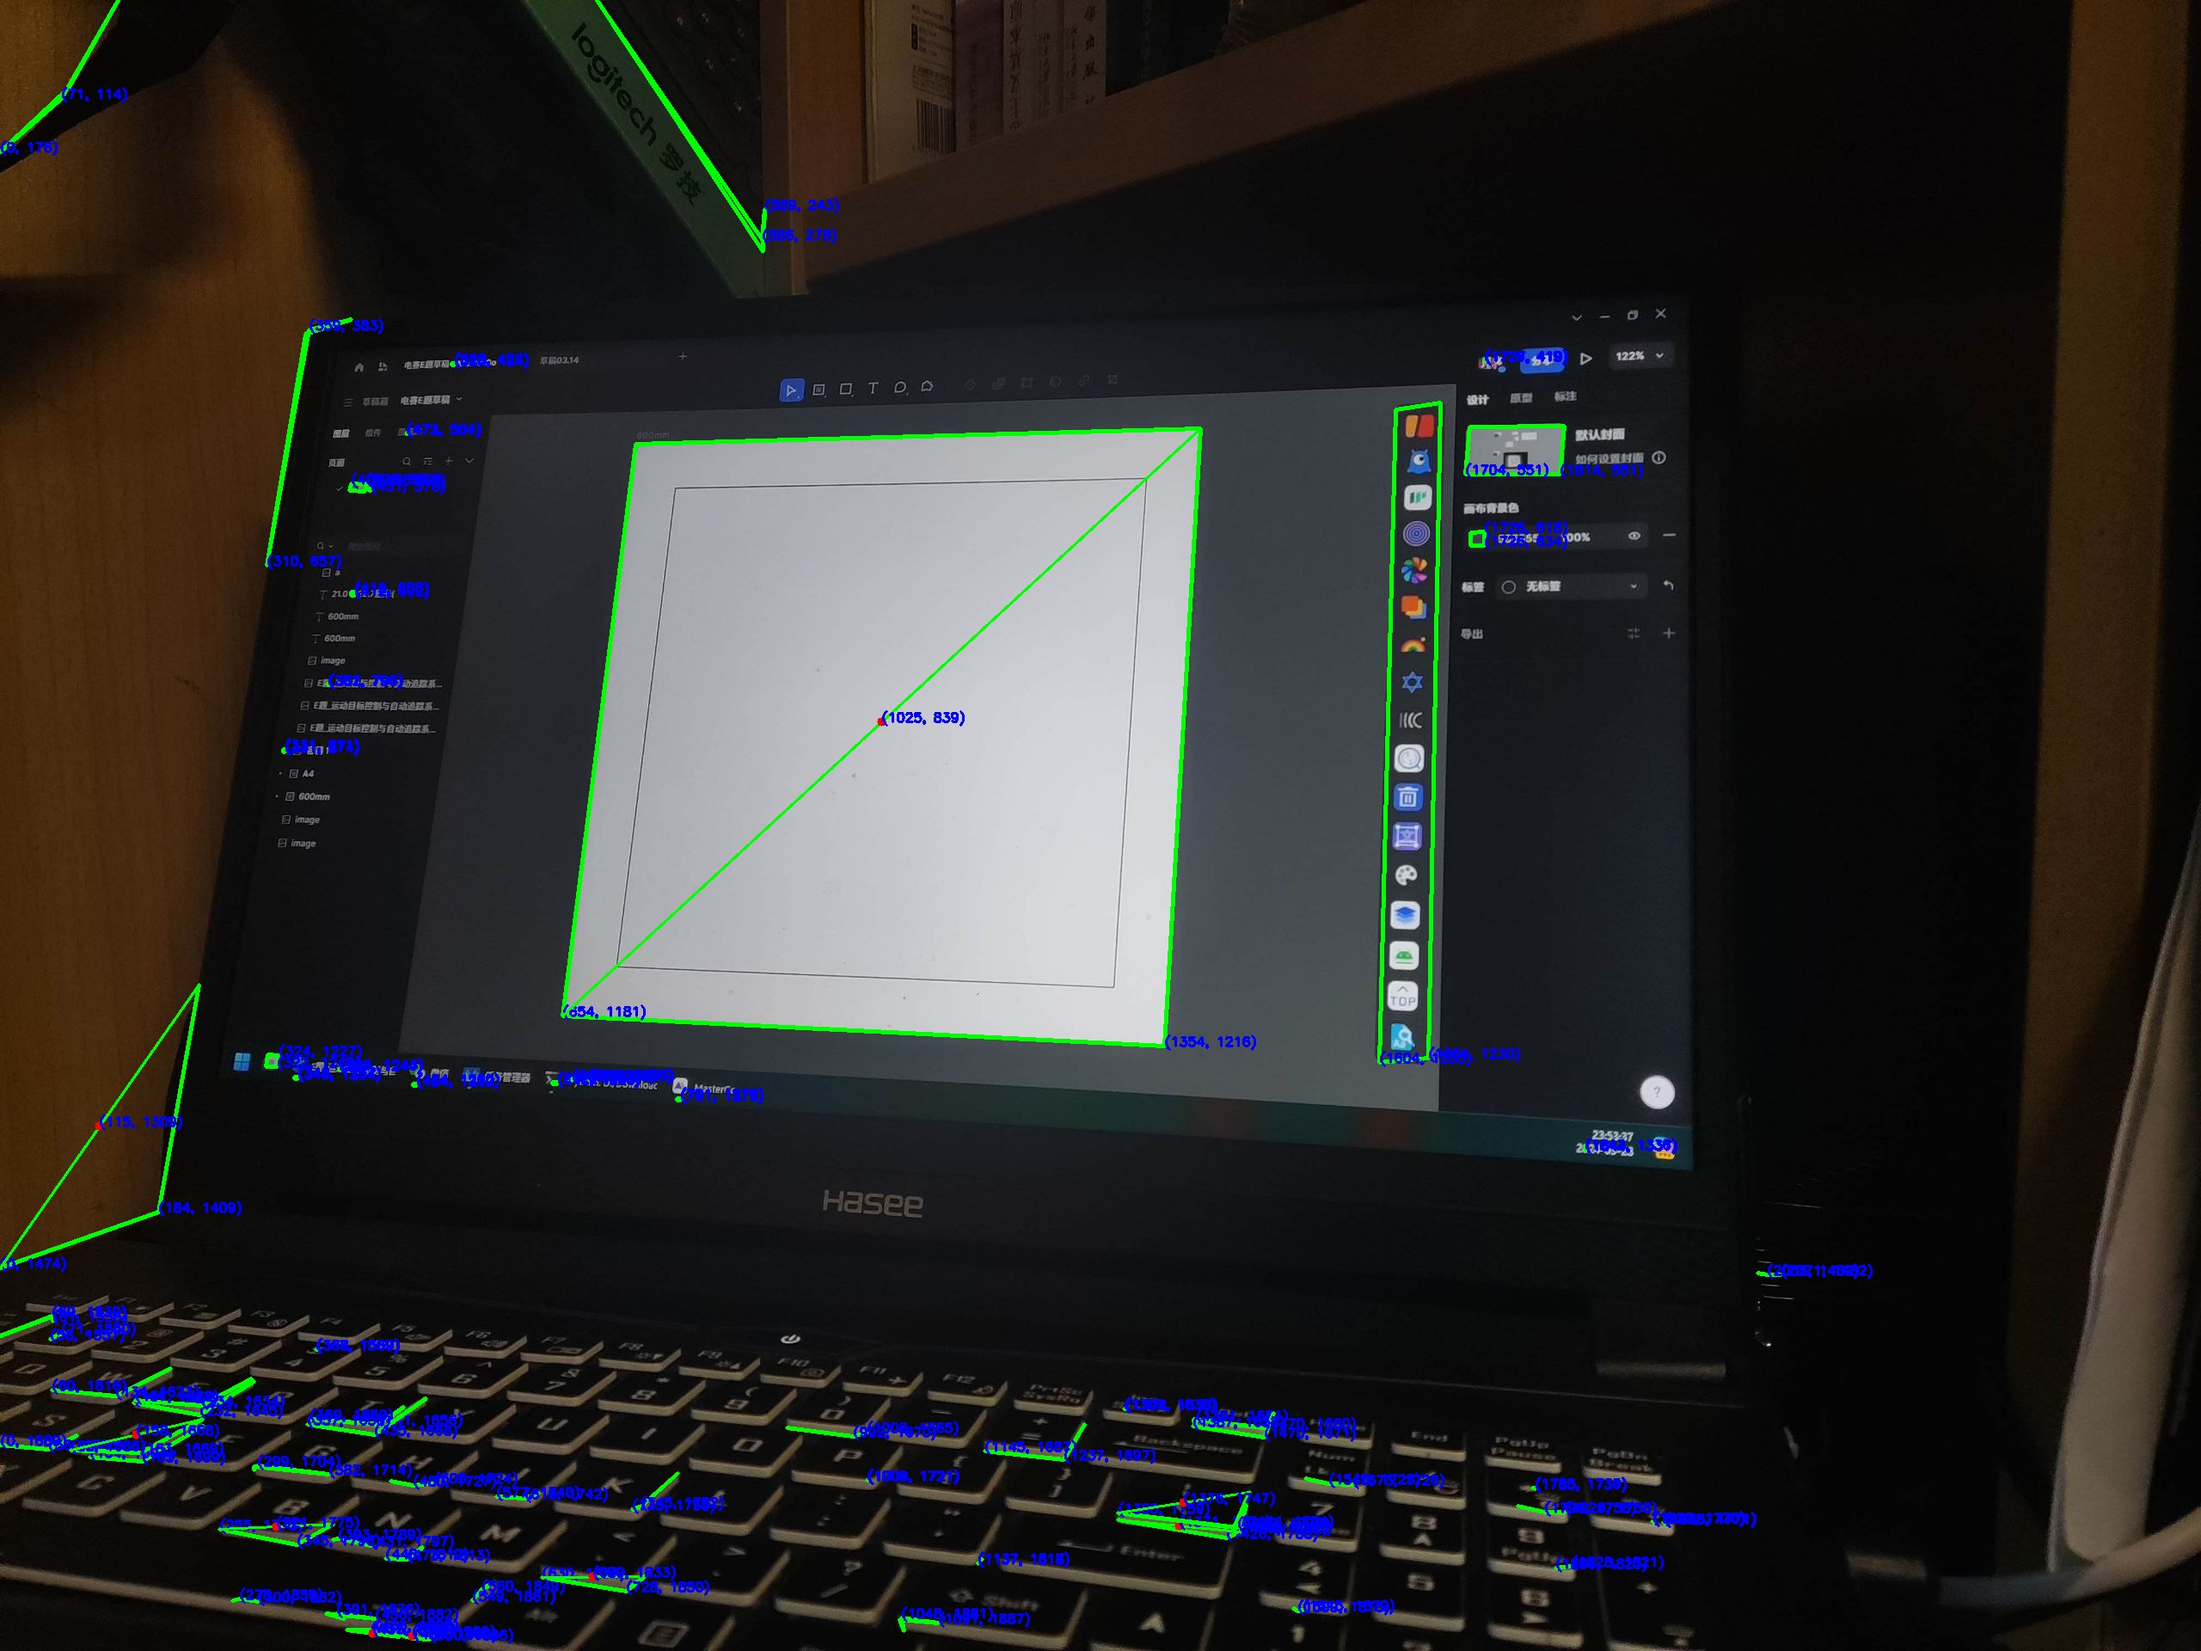
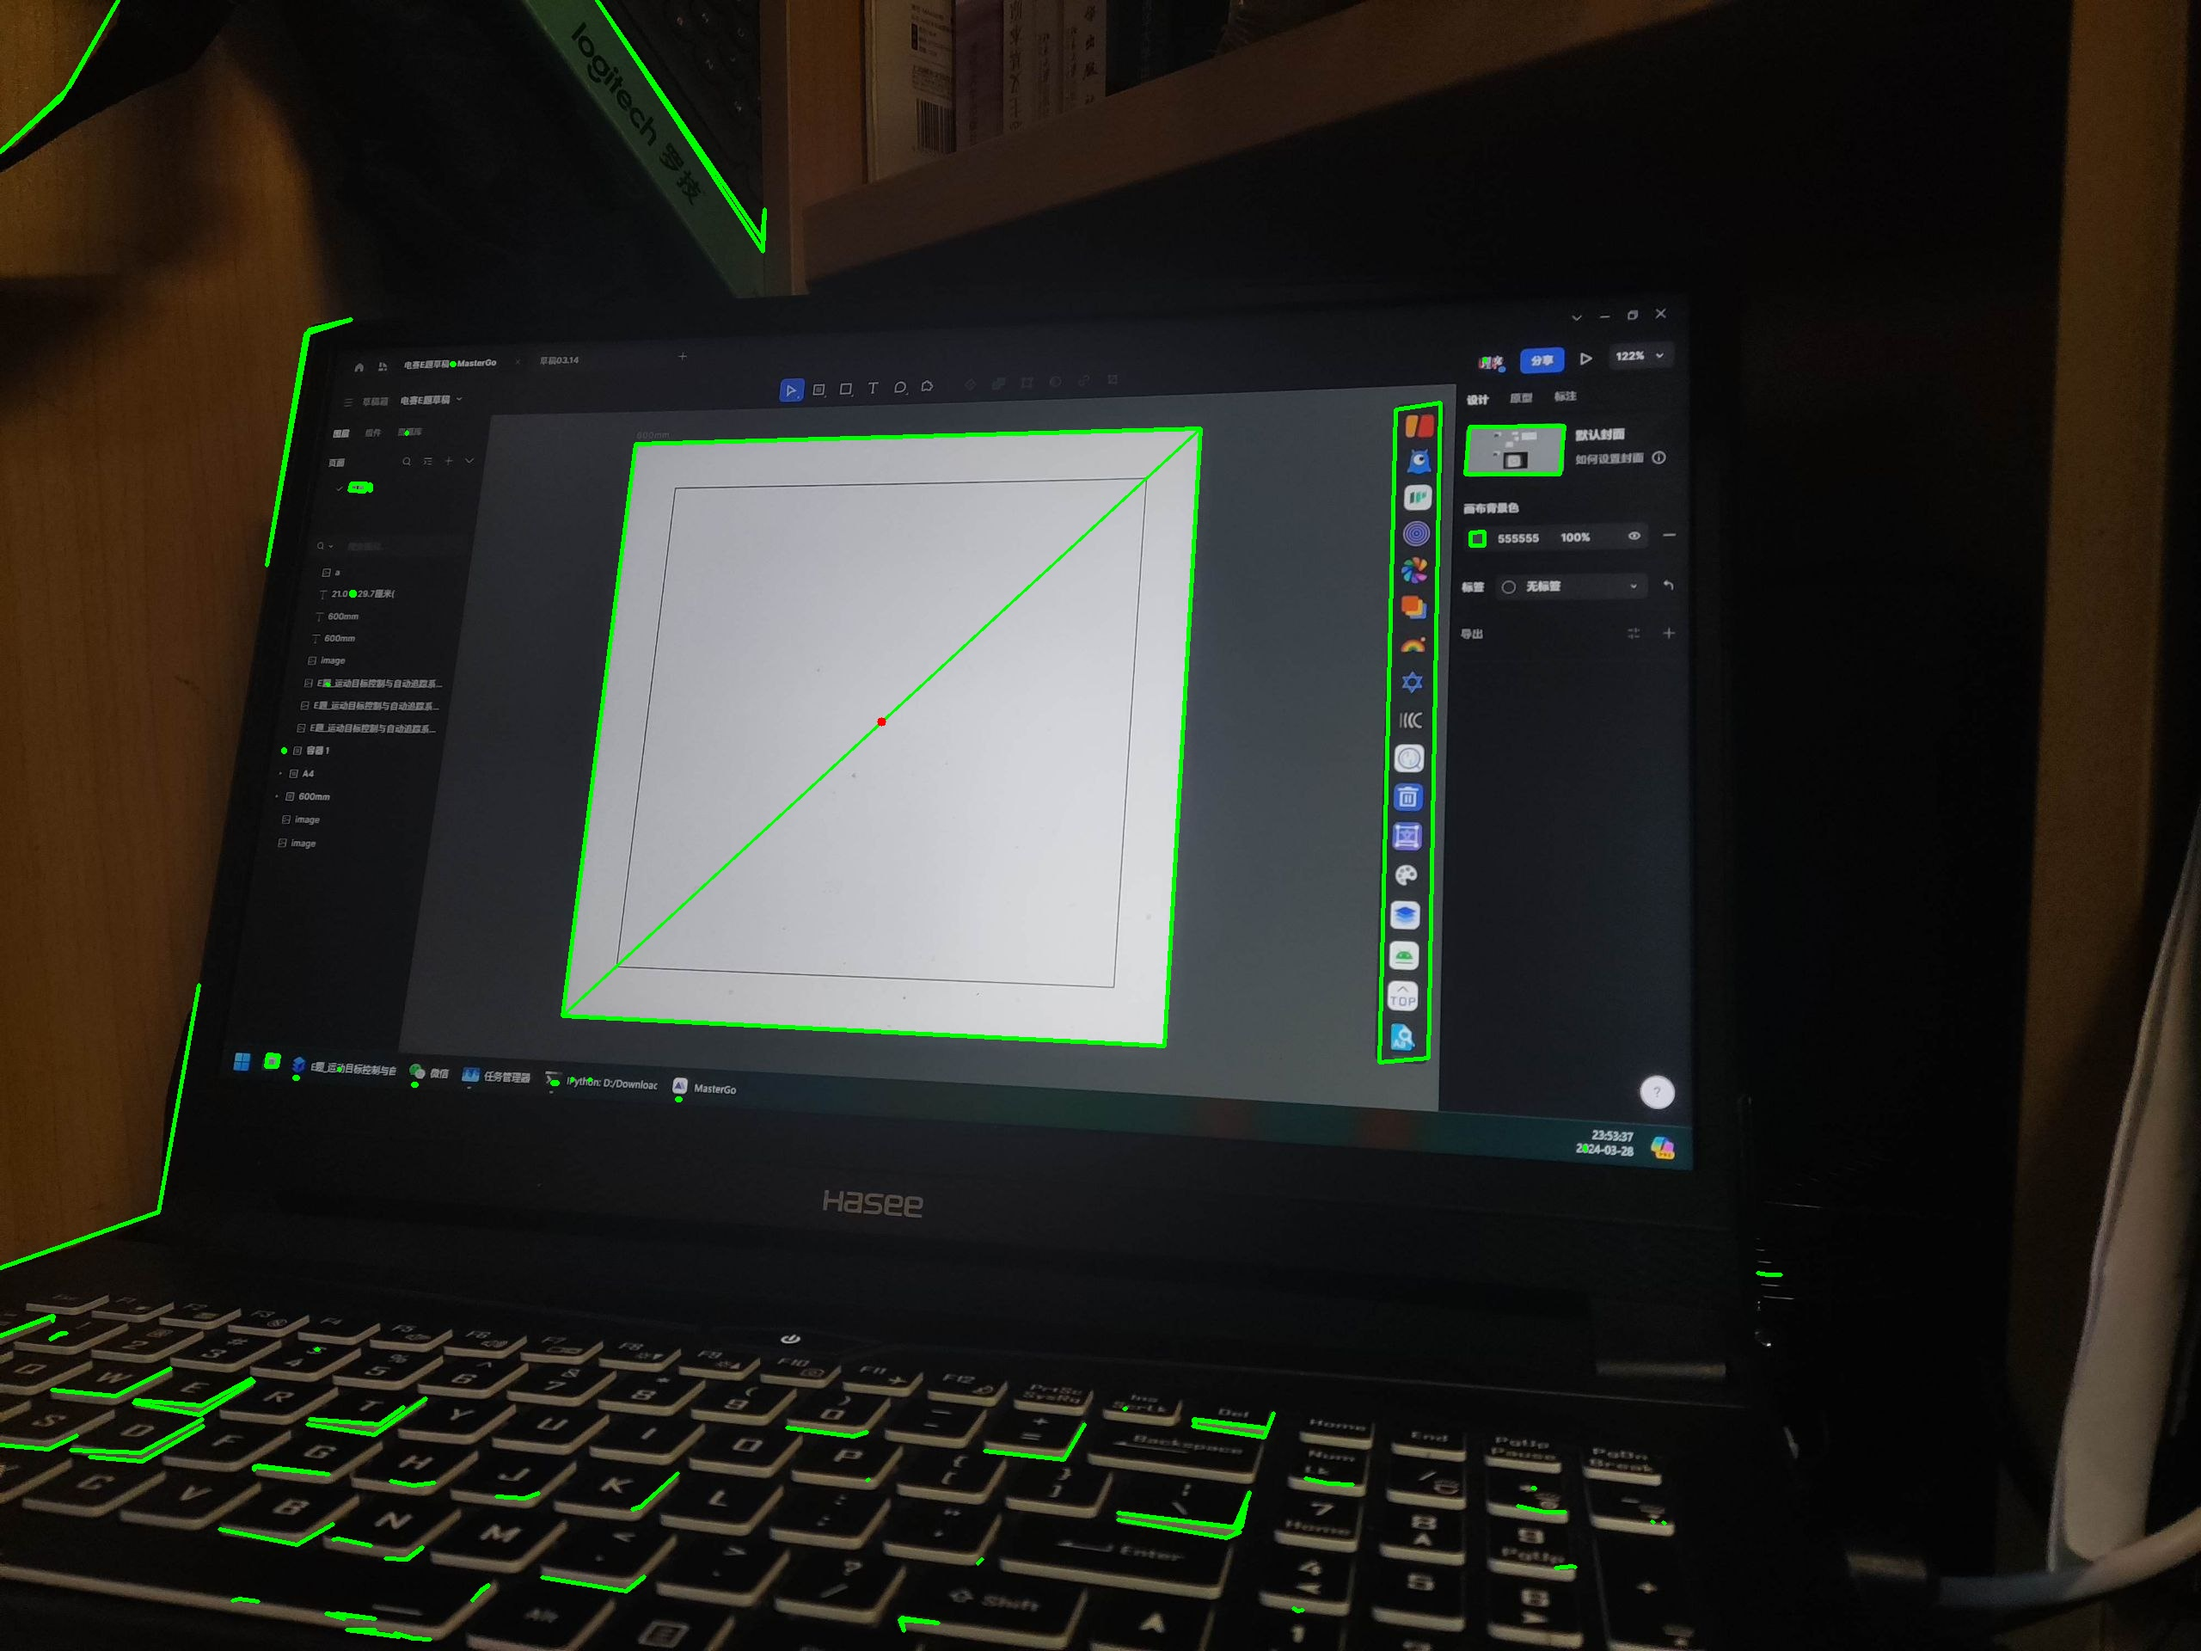
feat✨: 分离绘制程序

diff --git a/cam8.py b/cam8.py
@@ -102,74 +102,92 @@ def find_max_perimeter_contour(contours):
     return max_perimeter, max_cnt
 
 def find_contour_xy(contour, max_perimeter):
-    approx = cv2.approxPolyDP(contour, 0.02 * max_perimeter, True)  # 近似多边形
+    """
+    :param contour: 轮廓
+    :param max_perimeter: 最大周长
+    :return: 轮廓中心点坐标
+    """
+    if max_perimeter is not None:
+        approx = cv2.approxPolyDP(contour, 0.02 * max_perimeter, True)  # 近似多边形
 
-    if len(approx) == 4:  # 如果是四边形,计算四边形的四个顶点坐标并返回
-        vertices = approx.reshape(4, 2)  # 计算四边形的四个顶点坐标并返回
-        return vertices
+        if len(approx) == 4:  # 如果是四边形,计算四边形的四个顶点坐标并返回
+            vertices = approx.reshape(4, 2)  # 计算四边形的四个顶点坐标并返回
+            return vertices
 
-def draw_contour_and_vertices(img, vertices):  # 绘制轮廓和顶点和交点
+def draw_contour_and_vertices(img, vertices):
+    """
+    绘制轮廓和顶点和交点
+    :param img: 输入图像
+    :param vertices: 顶点坐标
+    :return: 绘制后的图像
+    """
+    if vertices is not None:
+        cv2.drawContours(img, [vertices], 0, (255, 0, 0), 2)  # 绘制四边形的边框
 
-    cv2.drawContours(img, [vertices], 0, (255, 0, 0), 2)  # 绘制四边形的边框
+        for i, vertex in enumerate(vertices):  # 绘制每个角点和坐标
+            cv2.circle(img, (vertex[0], vertex[1]), 5, (0, 0, 255), -1)
+            cv2.putText(
+                img,
+                f"({vertex[0]}, {vertex[1]})",
+                (vertex[0] + 5, vertex[1] - 5),
+                cv2.FONT_HERSHEY_SIMPLEX,
+                0.5, (0, 0, 255), 1, cv2.LINE_AA,
+            )
 
-    for i, vertex in enumerate(vertices):  # 绘制每个角点和坐标
-        cv2.circle(img, (vertex[0], vertex[1]), 5, (0, 0, 255), -1)
-        cv2.putText(
+        cv2.line(  # 绘制对角线
             img,
-            f"({vertex[0]}, {vertex[1]})",
-            (vertex[0] + 5, vertex[1] - 5),
-            cv2.FONT_HERSHEY_SIMPLEX,
-            0.5, (0, 0, 255), 1, cv2.LINE_AA,
+            (vertices[0][0], vertices[0][1]),
+            (vertices[2][0], vertices[2][1]),
+            (0, 255, 0), 1,
         )
-
-    cv2.line(  # 绘制对角线
-        img,
-        (vertices[0][0], vertices[0][1]),
-        (vertices[2][0], vertices[2][1]),
-        (0, 255, 0), 1,
-    )
-    cv2.line(
-        img,
-        (vertices[1][0], vertices[1][1]),
-        (vertices[3][0], vertices[3][1]),
-        (0, 255, 0), 1,
-    )
-
-    intersection = calculate_intersection(vertices)  # 计算两个对角线的交点
-
-    # 绘制交点和坐标
-    if intersection is not None:
-        cv2.circle(
-            img, (int(intersection[0]), int(intersection[1])), 5, (0, 0, 255), -1
-        )
-        cv2.putText(
+        cv2.line(
             img,
-            f"({int(intersection[0])}, {int(intersection[1])})",
-            (int(intersection[0]) + 5, int(intersection[1]) - 5),
-            cv2.FONT_HERSHEY_SIMPLEX,
-            0.5, (0, 0, 255), 1, cv2.LINE_AA,
-        )
-    # 输出交点的坐标
-    if intersection is not None:
-        print(f"交点的坐标: ({intersection[0]}, {intersection[1]})")
-
-    # 绘制等比缩小后的图像
-    new_vertices = shrink_rectangle(
-        vertices, intersection[0], intersection[1], (0.5 / 0.6)
-    )
-    cv2.drawContours(img, [new_vertices], 0, (255, 0, 0), 2)  # 绘制四边形的边框
-
-    for vertex in new_vertices:
-        cv2.circle(img, tuple(vertex), 5, (0, 0, 255), -1)
-        cv2.putText(
-            img,
-            f"({int(vertex[0])}, {int(vertex[1])})",
-            (int(vertex[0]) + 5, int(vertex[1]) - 5),
-            cv2.FONT_HERSHEY_SIMPLEX,
-            0.5, (0, 0, 255), 1, cv2.LINE_AA,
+            (vertices[1][0], vertices[1][1]),
+            (vertices[3][0], vertices[3][1]),
+            (0, 255, 0), 1,
         )
 
-    return img
+        intersection = calculate_intersection(vertices)  # 计算两个对角线的交点
+
+        # 绘制交点和坐标
+        if intersection is not None:
+            cv2.circle(
+                img, (int(intersection[0]), int(intersection[1])), 5, (0, 0, 255), -1
+            )
+            cv2.putText(
+                img,
+                f"({int(intersection[0])}, {int(intersection[1])})",
+                (int(intersection[0]) + 5, int(intersection[1]) - 5),
+                cv2.FONT_HERSHEY_SIMPLEX,
+                0.5, (0, 0, 255), 1, cv2.LINE_AA,
+            )
+        # 输出交点的坐标
+        if intersection is not None:
+            print(f"交点的坐标: ({intersection[0]}, {intersection[1]})")
+        
+        # cv2.imshow("img", img)
+        return img, intersection
+def draw_max_cnt_rectangle(img, vertices):  # 绘制轮廓和顶点和交点
+    if vertices is not None:
+        img, intersection = draw_contour_and_vertices(img, vertices)
+        
+        # 绘制等比缩小后的图像
+        new_vertices = shrink_rectangle(
+            vertices, intersection[0], intersection[1], (0.5 / 0.6)
+        )
+        cv2.drawContours(img, [new_vertices], 0, (255, 0, 0), 2)  # 绘制四边形的边框
+
+        for vertex in new_vertices:
+            cv2.circle(img, tuple(vertex), 5, (0, 0, 255), -1)
+            cv2.putText(
+                img,
+                f"({int(vertex[0])}, {int(vertex[1])})",
+                (int(vertex[0]) + 5, int(vertex[1]) - 5),
+                cv2.FONT_HERSHEY_SIMPLEX,
+                0.5, (0, 0, 255), 1, cv2.LINE_AA,
+            )
+
+        return img
 
 
 if __name__ == "__main__":

diff --git a/test-cam.py b/test-cam.py
@@ -1,25 +1,27 @@
 import cv2
-from cam8 import preprocess_image, find_max_perimeter_contour, find_contour_xy, draw_contour_and_vertices, calculate_intersection
+from cam8 import preprocess_image, find_max_perimeter_contour, find_contour_xy, calculate_intersection , draw_contour_and_vertices, draw_max_cnt_rectangle
 
 if __name__ == "__main__":
-    img = cv2.imread("img/rg.jpg")
+    img = cv2.imread("img/w3.jpg")
     contours = preprocess_image(img)
     max_perimeter, max_cnt = find_max_perimeter_contour(contours)
 
     if max_cnt is not None:
         vertices = find_contour_xy(max_cnt, max_perimeter)
-        #fin_img = draw_contour_and_vertices(img, vertices)
+        fin_img, intersection = draw_contour_and_vertices(img, vertices)
+        ##fin_img = draw_max_cnt_rectangle(fin_img, vertices)
+
     if vertices is not None:
         intersection = calculate_intersection(vertices)
         print(f"交点的坐标: ({intersection[0]}, {intersection[1]})")
         print(f"四个顶点坐标: \n {vertices}")
 
     # 显示的图像
-"""     
+    
     cv2.imshow("final", fin_img)
     cv2.imwrite("out/x-out.jpg", fin_img)
     cv2.waitKey(0)
     cv2.destroyAllWindows() 
-"""
+
 
 

diff --git a/cam8-1.py b/cam8-1.py
@@ -27,10 +27,10 @@ for cnt in contours:
         # 近似多边形
         approx = cv2.approxPolyDP(cnt, 0.02 * perimeter, True)
 
-        # 如果是矩形,则绘制边框
+        
         if len(approx) == 4:
-            x, y, w, h = cv2.boundingRect(approx)
-            #cv2.rectangle(img, (x, y), (x + w, y + h), (0, 255, 0), 2)
+            # x, y, w, h = cv2.boundingRect(approx)  # 绘制矩形边框
+            # cv2.rectangle(img, (x, y), (x + w, y + h), (0, 255, 0), 2)
             # 绘制四边形的边框
             cv2.drawContours(img, [approx], 0, (255, 0, 0), 2)
 
